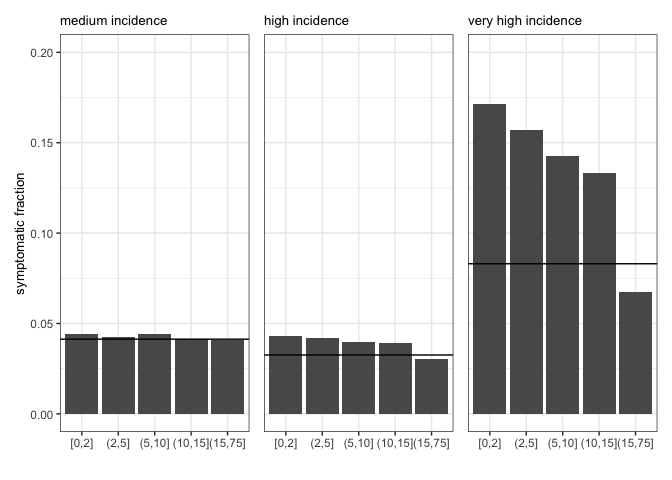
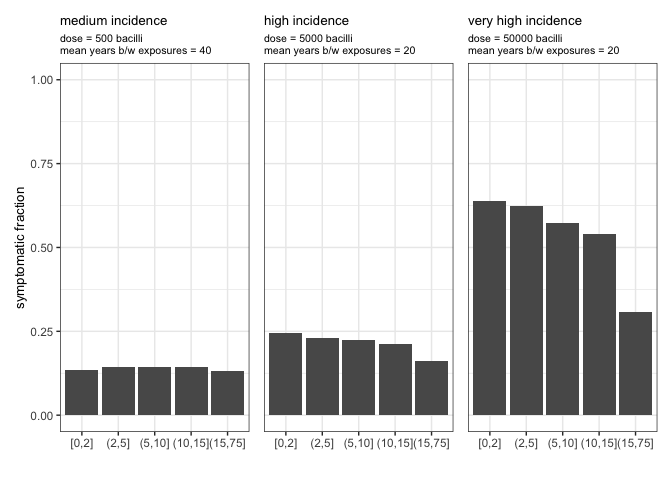
Revert blog post to main version before PR
Exclude exploratory model changes from cohort_incidence_model_proof_of_concept
blog post - keeping the canonical version that matches deployed gh-pages.

diff --git a/docs/blog/posts/cohort_incidence_model_proof_of_concept.md b/docs/blog/posts/cohort_incidence_model_proof_of_concept.md
@@ -140,21 +140,14 @@ another day.
 
     # fold-rise model. defaults set to natural immunity defaults
     fold_rise_model = function(CoP_pre,
-                               mu_0=1.25,
-                               CoP_max=10^3.5, CoP_min=1,
-                               sigma_0=0.5, # made up value for now, informed by polio (2.9/7.2)*mu_0
-                               response='individual'){# 'median'
-      if(response == 'median'){
-        mu = mu_0
-      } else if (response=='individual'){
-        mu = pmax(0,rnorm(length(CoP_pre),mean=mu_0,sd=sigma_0))
-      }
-      fold_rise = 10^(mu*(1-(log10(CoP_pre)-log10(CoP_min))/(log10(CoP_max)-log10(CoP_min))))
+                               mu_0=2.5,
+                               CoP_max=10^3.5, CoP_min=1){
+      fold_rise = 10^(mu_0*(1-(log10(CoP_pre)-log10(CoP_min))/(log10(CoP_max)-log10(CoP_min))))
       return(fold_rise)
     }
 
     pl_df=expand.grid(CoP_pre=10^seq(0,3.5,by=0.1)) |> 
-      mutate(fold_rise = fold_rise_model(CoP_pre=CoP_pre, response='median')) |>
+      mutate(fold_rise = fold_rise_model(CoP_pre=CoP_pre)) |>
       mutate(CoP_post = fold_rise * CoP_pre) 
     (ggplot(pl_df) +
       geom_line(aes(x=CoP_pre,y=fold_rise)) +
@@ -205,7 +198,7 @@ another day.
     p_outcome_given_dose = function(dose=1e4,  CoP_pre=1, outcome = 'fever_given_dose', 
                                     n50_fever_given_dose=27800, alpha_fever_given_dose=0.84, 
                                     gamma_fever_given_dose=0.4,
-                                    n50_infection_given_dose=27800/40,alpha_infection_given_dose = 0.84*2, 
+                                    n50_infection_given_dose=27800/10,alpha_infection_given_dose = 0.84*2, 
                                     gamma_infection_given_dose=0.4/2 
                                     ){
       
@@ -230,39 +223,22 @@ another day.
       return(p)
     }
 
-    plot_dat = expand.grid(dose = 10^seq(0,9,by=0.1),
-                CoP_pre = c(50,round(10^seq(0,3.5,by=0.5))),
-                outcome=factor(c('infection given dose','fever given dose','fever given infection'),
-                               levels=c('infection given dose','fever given dose','fever given infection'))) |>
+    expand.grid(dose = 10^seq(0,9,by=0.1),
+                CoP_pre = round(10^seq(0,3.5,by=0.5)),
+                outcome=factor(c('infection_given_dose','fever_given_dose'),
+                               levels=c('infection_given_dose','fever_given_dose','fever_given_infection'))) |>
       group_by(outcome,CoP_pre,dose) |>
-      mutate(probability = p_outcome_given_dose(dose=dose,CoP_pre=CoP_pre,outcome = gsub(' ','_',outcome))) |>
-      mutate(CoP_pre = factor(CoP_pre))
-
-    ggplot() +
-      geom_line(data = plot_dat |> filter(CoP_pre!=50),
-                aes(x=dose,y=probability,group=CoP_pre,color=CoP_pre)) +
-      geom_line(data = plot_dat |> filter(CoP_pre==50 & outcome == 'fever given dose'),
-                aes(x=dose,y=probability,group=CoP_pre),color='black',linewidth=1) +
+      mutate(probability = p_outcome_given_dose(dose=dose,CoP_pre=CoP_pre,outcome = outcome)) |>
+      mutate(CoP_pre = factor(CoP_pre)) |>
+      ggplot() +
+      geom_line(aes(x=dose,y=probability,group=CoP_pre,color=CoP_pre)) +
       facet_grid('~outcome') +
       theme_bw() +
       ylim(c(0,1)) +
       scale_x_continuous(trans='log10', breaks=10^seq(0,10,by=2),minor_breaks = NULL,
-                         labels = trans_format("log10", math_format(10^.x)) ) +
-      xlab('bacilli') +
-      geom_text(
-        data = data.frame(
-          x = 10^2,
-          y = 0.3,
-          label = "Hornick/\nLevine",
-          outcome = factor("fever given dose",levels=levels(plot_dat$outcome))
-        ),
-        aes(x = x, y = y, label = label),fontface = "bold",size=3
-      ) +
-      labs(color = "anti-Vi titer\n[EU/ml]")
+                         labels = trans_format("log10", math_format(10^.x)) ) 
 
 ![](cohort_incidence_model_proof_of_concept_files/figure-markdown_strict/unnamed-chunk-5-1.png)
-
-    ggsave('scratch/figures/cohort_model_susceptibility_vs_dose_CoP_pre.png',units='in',width=6, height=3)
 
 The **protective efficacy of prior infection** (in this case, also
 vaccine efficacy more generally) is defined as the relative risk
@@ -280,10 +256,10 @@ immunity vs a person who has never been exposed.
 
     expand.grid(dose = 10^seq(0,8,by=0.1),
                 CoP_pre = round(10^seq(0,3.5,by=0.5)),
-                outcome=factor(c('infection given dose','fever given dose'),
-                               levels=c('infection given dose','fever given dose','fever given infection'))) |>
+                outcome=factor(c('infection_given_dose','fever_given_dose'),
+                               levels=c('infection_given_dose','fever_given_dose','fever_given_infection'))) |>
       group_by(outcome,CoP_pre,dose) |>
-      mutate(protective_efficacy = protective_efficacy(dose=dose,CoP_pre=CoP_pre,outcome = gsub(' ','_',outcome))) |>
+      mutate(protective_efficacy = protective_efficacy(dose=dose,CoP_pre=CoP_pre,outcome = outcome)) |>
       mutate(CoP_pre = factor(CoP_pre)) |>
       ggplot() +
       geom_line(aes(x=dose,y=protective_efficacy,group=CoP_pre,color=CoP_pre)) +
@@ -291,8 +267,7 @@ immunity vs a person who has never been exposed.
       theme_bw() +
       ylim(c(0,1)) +
       scale_x_continuous(trans='log10', breaks=10^seq(0,10,by=2),minor_breaks = NULL,
-                         labels = scales::trans_format("log10", math_format(10^.x)) ) +
-      xlab('bacilli') + ylab('protective efficacy')
+                         labels = scales::trans_format("log10", math_format(10^.x)) ) 
 
 ![](cohort_incidence_model_proof_of_concept_files/figure-markdown_strict/unnamed-chunk-6-1.png)
 
@@ -326,9 +301,8 @@ First, we define the function and it’s inputs.
     cohort_model = function(exposure_dose,exposure_rate,
                             N=1000,age_max=75,
                             titer_dt=365/12, # monthly timesteps so I can assume infections last one timestep
-                            max_titer_id = 1000, # saving every titer above ~1000 gets really slow
-                            exposure_rate_multiplier = c(rep(0.2,13),rep(0.5,12),rep(0.8,36),rep(1,120),rep(0.5,75*12-25-36-120))
-    ){
+                            max_titer_id = 1000 # saving every titer above ~1000 gets really slow
+                            ){
 The two variables that define the transmission ecology are the exposure dose and exposure rate. The exposure dose is the number of bacilli typically ingested when exposed in the setting. This could be drawn from a distribution, but we'll just assume it's a fixed value for now. The exposure rate is the Poisson rate for how often a person is exposed to an infectious dose. Together, through the dose response model, the exposure rate and dose determine how often people get infected. 
 
 The other parameters are just basic simulation config stuff. How many people (default `N=1000`), what is the maximimum age in years (default `age_max = 75`), the timestep (default `titer_dt=365/12`= 1 month), and how many people will we track the full time history of the titer for (default 'max_titer_id=1000'; I suggest you keep this at this size regardless of the N, as this is the slowest part of the code), 
@@ -354,8 +328,8 @@ With the function header and parameters defined, we step into the code. First, w
 We also make one extra accounting for reality, which is that young children have less exposure to typhoid. Infants because they do not eat adult food, and toddlers because they tyically eat small and limited diets. This should probably be configurable as parameters, but I'm not gonna play with it in this script so I just hard coded that children up through 12 months of age have 10% the exposure of adults and children 1-2 years have 50%, by pure assumption.
 
       # age-dependent exposure rate, to account for kids under 2y having less exposure to food and sewage
-      # exposure_rate_multiplier = c(rep(0.2,13),rep(0.5,12),rep(1,length(simulation_months)-25))
-      
+      exposure_rate_multiplier = c(rep(0.1,13),rep(0.5,12),rep(1,length(simulation_months)-25))
+
 With that set up, we can expose everyone for their lifetimes and save the exposure event times.
 
       # expose
@@ -490,34 +464,30 @@ differ in overall incidence (100/100k &lt; “high” &lt; 1000/100k
 vs. $1000/100k &lt; “very high”).
 
     # if the simulation output is saved, just use the cache. Otherwise, run the models.
-    if (TRUE | !file.exists('scratch/output_cache.RData')){
+    if (!file.exists('scratch/output_cache.RData')){
       output=list()
       
       # define setting ecology: exposure rate and dose
 
         # N_cohort=2e4 # a lot faster for playing
-        # N_cohort=2e5 
         N_cohort=1e6 # made huge to get good stats at lower incidence
       
         # medium
-        output[['medium']] = cohort_model(exposure_dose = 4e2,
-                                          exposure_rate=1/(12*20), # per month
-                                          N=N_cohort,
-                                          exposure_rate_multiplier = c(rep(0.1,13),rep(0.5,12),rep(0.7,36),rep(1,60),rep(1,60),rep(0.5,75*12-25-36-120)))
+        output[['medium']] = cohort_model(exposure_dose = 5e2,
+                                          exposure_rate=1/(12*40), # per month
+                                          N=N_cohort)
         
         # high
-        output[['high']] = cohort_model(exposure_dose = 4e2,
-                                        exposure_rate=1/(12*3), # per month
-                                        N=N_cohort/5,
-                                        exposure_rate_multiplier = c(rep(0.1,13),rep(0.5,12),rep(1,36),rep(1,60),rep(0.7,60),rep(0.5,75*12-25-36-120)))
+        output[['high']] = cohort_model(exposure_dose = 5e3,
+                                        exposure_rate=1/(12*20), # per month
+                                        N=N_cohort/5)
         
         # very high
-        output[['very_high']] = cohort_model(exposure_dose = 5e3,
-                                             exposure_rate=1/(12*3), # per month
-                                             N=N_cohort/10,
-                                             exposure_rate_multiplier = c(rep(0.1,13),rep(0.5,12),rep(1,36),rep(0.7,60),rep(0.5,60),rep(0.5,75*12-25-36-120)))
+        output[['very_high']] = cohort_model(exposure_dose = 5e4,
+                                             exposure_rate=1/(12*20), # per month
+                                             N=N_cohort/10)
         
-        save(output,N_cohort,file='scratch/output_cache.RData')
+        save(output,N,file='scratch/output_cache.RData')
     } else {
       load(file='scratch/output_cache.RData')  
     }
@@ -526,6 +496,7 @@ And, for summarizing the results, let’s calculate incidence per 100k
 people by age and overall from the events data, and include the total
 incidence archetype targets for reference.
 
+    # incidence targets
     incidence_fever_targets = c(medium = 53,high=214,very_high=1255)
 
     # calculate incidence
@@ -541,74 +512,8 @@ incidence archetype targets for reference.
                   age_width = unique(age_width)) |>
         mutate(incidence_fever_overall = sum(incidence_fever*age_width/sum(age_width)),
                incidence_infection_overall = sum(incidence_infection*age_width/sum(age_width)),
-               symptomatic_fraction_overall = sum(symptomatic_fraction*age_width/sum(age_width)),
                incidence_fever_target = incidence_fever_targets[names(output)[k]])
     }
-
-    ## exposure rate by age
-    exposure_rate_by_age_targets = expand.grid(age_group=unique(output[[1]]$incidence_vs_age$age_group),
-                                               setting = names(output)) |>
-      mutate(age_group_numeric = as.numeric(age_group)-0.5) |>
-      mutate(exposures_per_year = c(1/20*c(0.3,0.7,1,1,0.5),
-                                    1/3*c(0.3,1,1,0.7,0.5),
-                                    1/3*c(0.3,1,0.7,0.5,0.5))) |>
-      mutate(bacilli_per_exposure = c(4e2*c(1,1,1,1,1),
-                                  4e2*c(1,1,1,1,1),
-                                  5e3*c(1,1,1,1,1))) |>
-      # mutate(bacilli_per_year = c(4e2/20*c(0.3,0.7,1,1,0.5),
-      #                             4e2/3*c(0.3,1,1,0.7,0.5),
-      #                             5e3/3*c(0.3,1,0.7,0.5,0.5))) |>
-      mutate(bacilli_per_year = bacilli_per_exposure * exposures_per_year) |>
-      rbind(data.frame(age_group=NA,
-                       age_group_numeric=5.5,
-                       exposures_per_year=c(1/20*0.5,1/3*0.5,1/3*0.5),
-                       bacilli_per_exposure = c(4e2,4e2,5e3),
-                       bacilli_per_year=c(4e2/20*0.5,4e2/3*0.5,5e3/3*0.5),
-                       setting = names(output)))
-
-    ggplot(exposure_rate_by_age_targets) +
-      geom_step(aes(x=age_group_numeric,y=bacilli_per_year,group=setting)) +
-      theme_bw() +
-      facet_grid('~setting') +
-      scale_x_continuous(breaks=1:5,labels = as.character(unique(output[[1]]$incidence_vs_age$age_group))) +
-      scale_y_continuous(trans='log10',breaks=c(1,2,5,10,20,50,100,200,500,1000,2000),
-                         minor_breaks = NULL) +
-      xlab('age [years]') +
-      ylab('bacilli\ningested\nper exposure') +
-      theme(strip.text = element_blank())
-
-![](cohort_incidence_model_proof_of_concept_files/figure-markdown_strict/unnamed-chunk-10-1.png)
-
-    ggsave('scratch/figures/cohort_model_mean_bacilli_ingested_per_year_by_age.png',units='in',width=8, height=1.25)
-
-    ggplot(exposure_rate_by_age_targets) +
-      geom_step(aes(x=age_group_numeric,y=bacilli_per_exposure,group=setting)) +
-      theme_bw() +
-      facet_grid('~setting') +
-      scale_x_continuous(breaks=1:5,labels = as.character(unique(output[[1]]$incidence_vs_age$age_group))) +
-      scale_y_continuous(trans='log10',breaks=c(1,2,5,10,20,50,100,200,500,1000,2000,5000),
-                         minor_breaks = NULL) +
-      xlab('age [years]') +
-      ylab('bacilli\ningested\nper exposure') +
-      theme(strip.text = element_blank())
-
-![](cohort_incidence_model_proof_of_concept_files/figure-markdown_strict/unnamed-chunk-10-2.png)
-
-    ggsave('scratch/figures/cohort_model_mean_bacilli_ingested_per_exposure_by_age.png',units='in',width=8, height=1.25)
-
-    ggplot(exposure_rate_by_age_targets) +
-      geom_step(aes(x=age_group_numeric,y=exposures_per_year,group=setting)) +
-      theme_bw() +
-      facet_grid('~setting') +
-      scale_x_continuous(breaks=1:5,labels = as.character(unique(output[[1]]$incidence_vs_age$age_group))) +
-      scale_y_continuous(minor_breaks = NULL) +
-      theme(strip.text = element_blank()) +
-      xlab('age [years]') +
-      ylab('mean\nexposures\nper year')
-
-![](cohort_incidence_model_proof_of_concept_files/figure-markdown_strict/unnamed-chunk-10-3.png)
-
-    ggsave('scratch/figures/cohort_model_fitted_exposure_rates_by_age.png',units='in',width=8, height=1.25)
 
 ## Results!
 
@@ -621,39 +526,20 @@ fraction of infections with fever. There’s a bunch of ggplot stuff and
 I’m sure I could make it less verbose but that’s not the point–this is
 model diagnostics in action.
 
-    # fever incidence targets from WHO TCV working group
-    incidence_fever_by_age_targets = rep(list(data.frame(age_group=unique(output[[1]]$incidence_vs_age$age_group),
-                                                         incidence_fever = NaN,
-                                                         lower=NaN,
-                                                         upper=NaN)),3)
-    incidence_fever_by_age_targets[[1]]$incidence_fever <- c(20,53,71,72,35)
-    incidence_fever_by_age_targets[[1]]$lower <- c(15,40,58,57,30)
-    incidence_fever_by_age_targets[[1]]$upper <- c(27,66,83,84,40)
-    incidence_fever_by_age_targets[[2]]$incidence_fever = c(160,500,420,275,140)
-    incidence_fever_by_age_targets[[2]]$lower <- c(120,440,370,240,160)
-    incidence_fever_by_age_targets[[2]]$upper <- c(200,560,470,320,120)
-    incidence_fever_by_age_targets[[3]]$incidence_fever = c(1400,4350,2950,1750,600)
-    incidence_fever_by_age_targets[[3]]$lower <- c(1200,4000,2750,1600,550)
-    incidence_fever_by_age_targets[[3]]$upper <- c(1600,4700,3150,1900,650)
-
-    # calculate incidences from the model
     p_incidence_fever=list()
     p_incidence_infection=list()
     p_symptomatic_fraction=list()
     for (k in 1:length(output)){
       p_incidence_fever[[k]]=ggplot(output[[k]]$incidence_vs_age) +
         geom_bar(aes(x=age_group,y=incidence_fever),stat='identity') +
-        # geom_hline(aes(yintercept=incidence_fever_overall[1]),linetype='solid') +
-        # geom_hline(aes(yintercept=incidence_fever_target[1]),linetype='dashed') +
-        geom_segment(data=incidence_fever_by_age_targets[[k]],aes(x=age_group,y=lower,yend=upper,group=age_group),stat='identity',color='orangered') +
-        geom_point(data=incidence_fever_by_age_targets[[k]],aes(x=age_group,y=incidence_fever),stat='identity',color='orangered') +
+        geom_hline(aes(yintercept=incidence_fever_overall[1]),linetype='solid') +
+        geom_hline(aes(yintercept=incidence_fever_target[1]),linetype='dashed') +
         theme_bw() +
         xlab('') +
         ylab('annual incidence of fever per 100k') +
         labs(title = paste(sub('_',' ',names(output)[k]),' incidence',sep=''),
-        #      subtitle=paste('dose = ',output[[k]]$config$exposure_dose,' bacilli\nmean years b/w exposures = ',
-        #                     1/(12*output[[k]]$config$exposure_rate),sep='')
-        ) +
+             subtitle=paste('dose = ',output[[k]]$config$exposure_dose,' bacilli\nmean years b/w exposures = ',
+                            1/(12*output[[k]]$config$exposure_rate),sep='')) +
         theme(plot.title=element_text(size=10),plot.subtitle=element_text(size=8),
               axis.title = element_text(size=10))
       
@@ -664,23 +550,20 @@ model diagnostics in action.
         xlab('') +
         ylab('annual incidence of infection per 100k') +
         labs(title = paste(sub('_',' ',names(output)[k]),' incidence',sep=''),
-        #      subtitle=paste('dose = ',output[[k]]$config$exposure_dose,' bacilli\nmean years b/w exposures = ',
-        #                     1/(12*output[[k]]$config$exposure_rate),sep='')
-        ) +
+             subtitle=paste('dose = ',output[[k]]$config$exposure_dose,' bacilli\nmean years b/w exposures = ',
+                            1/(12*output[[k]]$config$exposure_rate),sep='')) +
         theme(plot.title=element_text(size=10),plot.subtitle=element_text(size=8),
               axis.title = element_text(size=10))
       
       p_symptomatic_fraction[[k]]=ggplot(output[[k]]$incidence_vs_age) +
         geom_bar(aes(x=age_group,y=symptomatic_fraction),stat='identity') +
-        geom_hline(aes(yintercept=symptomatic_fraction_overall[1]),linetype='solid') +
         theme_bw() +
         xlab('') +
         ylab('symptomatic fraction') +
-        ylim(c(0,0.2)) +
+        ylim(c(0,1)) +
         labs(title = paste(sub('_',' ',names(output)[k]),' incidence',sep=''),
-        #      subtitle=paste('dose = ',output[[k]]$config$exposure_dose,' bacilli\nmean years b/w exposures = ',
-        #                     1/(12*output[[k]]$config$exposure_rate),sep='')
-        ) +
+             subtitle=paste('dose = ',output[[k]]$config$exposure_dose,' bacilli\nmean years b/w exposures = ',
+                            1/(12*output[[k]]$config$exposure_rate),sep='')) +
         theme(plot.title=element_text(size=10),plot.subtitle=element_text(size=8),
               axis.title = element_text(size=10))
     }
@@ -806,7 +689,6 @@ function of the exposure dose and the titer.
       tmp_titer_summary =output[[k]]$titer_df |>
         mutate(protective_efficacy_infection = protective_efficacy(dose = exposure_dose,CoP_pre = titer, outcome='infection_given_dose')) |>
         mutate(protective_efficacy_fever = protective_efficacy(dose = exposure_dose,CoP_pre = titer, outcome='fever_given_dose')) |>
-        mutate(seropositive_VaccZyme = 10^(log10(titer)*(1 + 0.37*rnorm(length(titer))))>7) |>
         group_by(age_years) |>
         summarize(titer_gmt = exp(mean(log(titer))),
                titer_median = median(titer),
@@ -814,7 +696,7 @@ function of the exposure dose and the titer.
                titer_lower_iqr = quantile(titer,probs=0.25),
                titer_upper_95 = quantile(titer,probs=0.975),
                titer_lower_95 = quantile(titer,probs=0.025),
-               fraction_seropositive_VaccZyme = mean(seropositive_VaccZyme),
+               fraction_seropositive_VaccZyme = mean(titer>7),
                protective_efficacy_infection_median = median(protective_efficacy_infection),
                protective_efficacy_infection_upper_iqr = quantile(protective_efficacy_infection,probs=0.75),
                protective_efficacy_infection_lower_iqr = quantile(protective_efficacy_infection,probs=0.25),
@@ -827,16 +709,11 @@ function of the exposure dose and the titer.
                protective_efficacy_fever_lower_95 = quantile(protective_efficacy_fever,probs=0.025))
       
       p_titer_summary[[k]] = ggplot(tmp_titer_summary) +
-        # geom_ribbon(aes(x=age_years,ymin=titer_lower_95,ymax=titer_upper_95),alpha=0.2)+
-        # geom_ribbon(aes(x=age_years,ymin=titer_lower_iqr,ymax=titer_upper_iqr),alpha=0.2)+
-        # geom_line(aes(x=age_years,y=titer_median)) + 
-        # geom_line(aes(x=age_years,y=titer_gmt),linetype='dashed') +
-        # scale_y_continuous(limits=c(1,10^3.5),trans='log2') +
-        geom_ribbon(aes(x=age_years,ymin=log2(titer_lower_95),ymax=log2(titer_upper_95)),alpha=0.2)+
-        geom_ribbon(aes(x=age_years,ymin=log2(titer_lower_iqr),ymax=log2(titer_upper_iqr)),alpha=0.2)+
-        geom_line(aes(x=age_years,y=log2(titer_median))) + 
-        geom_line(aes(x=age_years,y=log2(titer_gmt)),linetype='dashed') +
-        scale_y_continuous(breaks=seq(0,10,by=1),minor_breaks=NULL)+
+        geom_ribbon(aes(x=age_years,ymin=titer_lower_95,ymax=titer_upper_95),alpha=0.2)+
+        geom_ribbon(aes(x=age_years,ymin=titer_lower_iqr,ymax=titer_upper_iqr),alpha=0.2)+
+        geom_line(aes(x=age_years,y=titer_median)) + 
+        geom_line(aes(x=age_years,y=titer_gmt),linetype='dashed') + 
+        scale_y_continuous(limits=c(1,10^3.5),trans='log2') +
         theme_bw() +
         xlab('age') +
         labs(title = paste(sub('_',' ',names(output)[k]),' incidence',sep=''),
@@ -956,4 +833,4 @@ development are
     a future update, we should close the loop.
 3.  Related, carrier status is likely modulated via bacteremia, the
     probability of which also depends on immunity. This is again of
-    interest for a future update. \## Vaccine efficacy!
+    interest for a future update.
